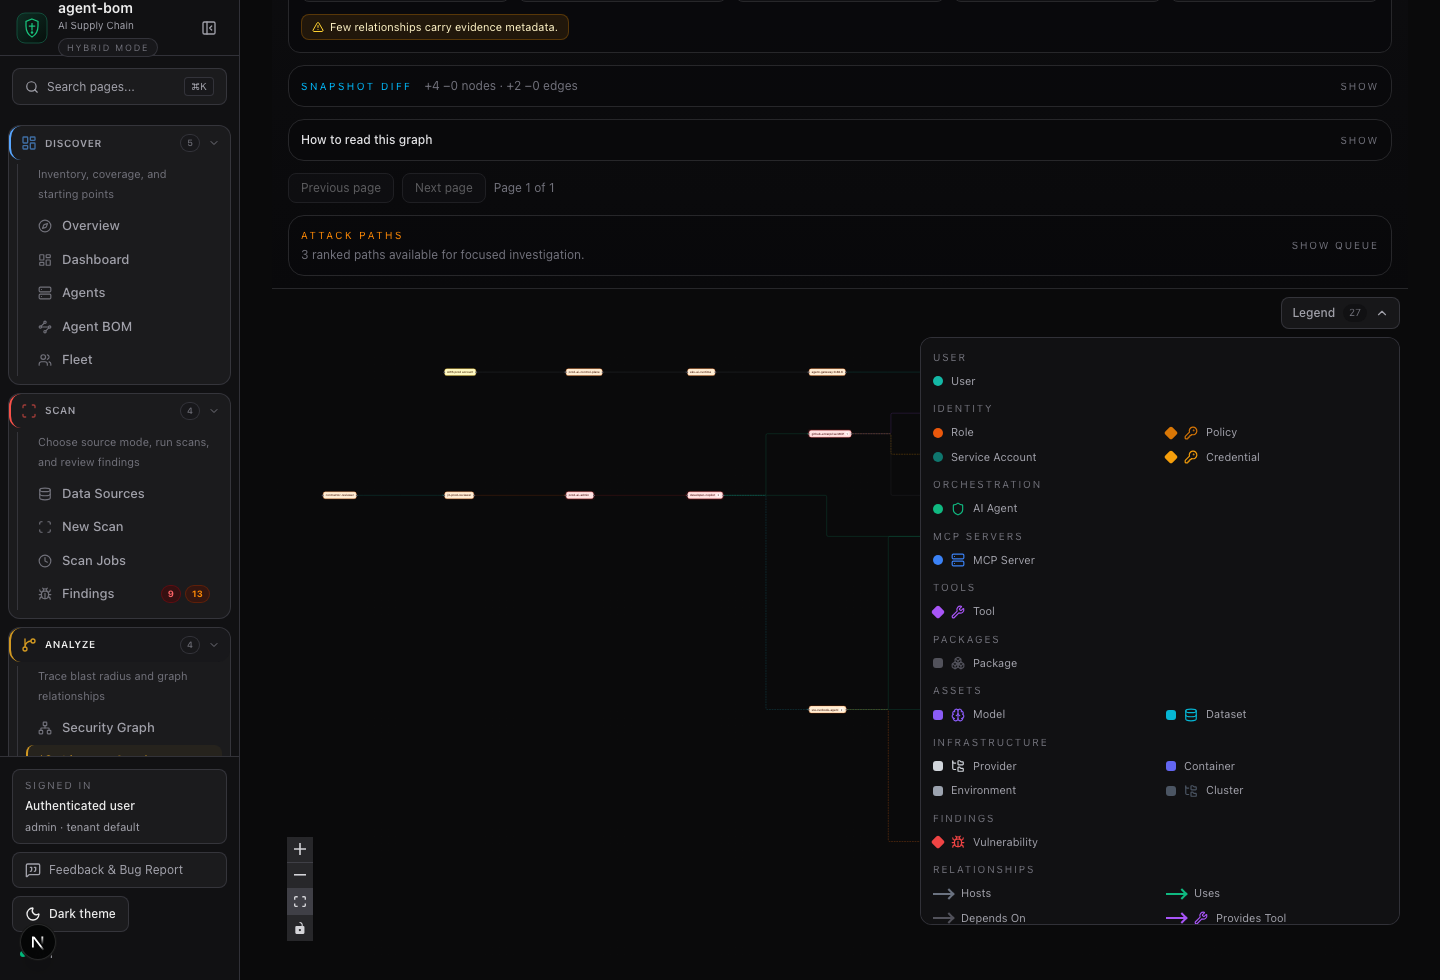
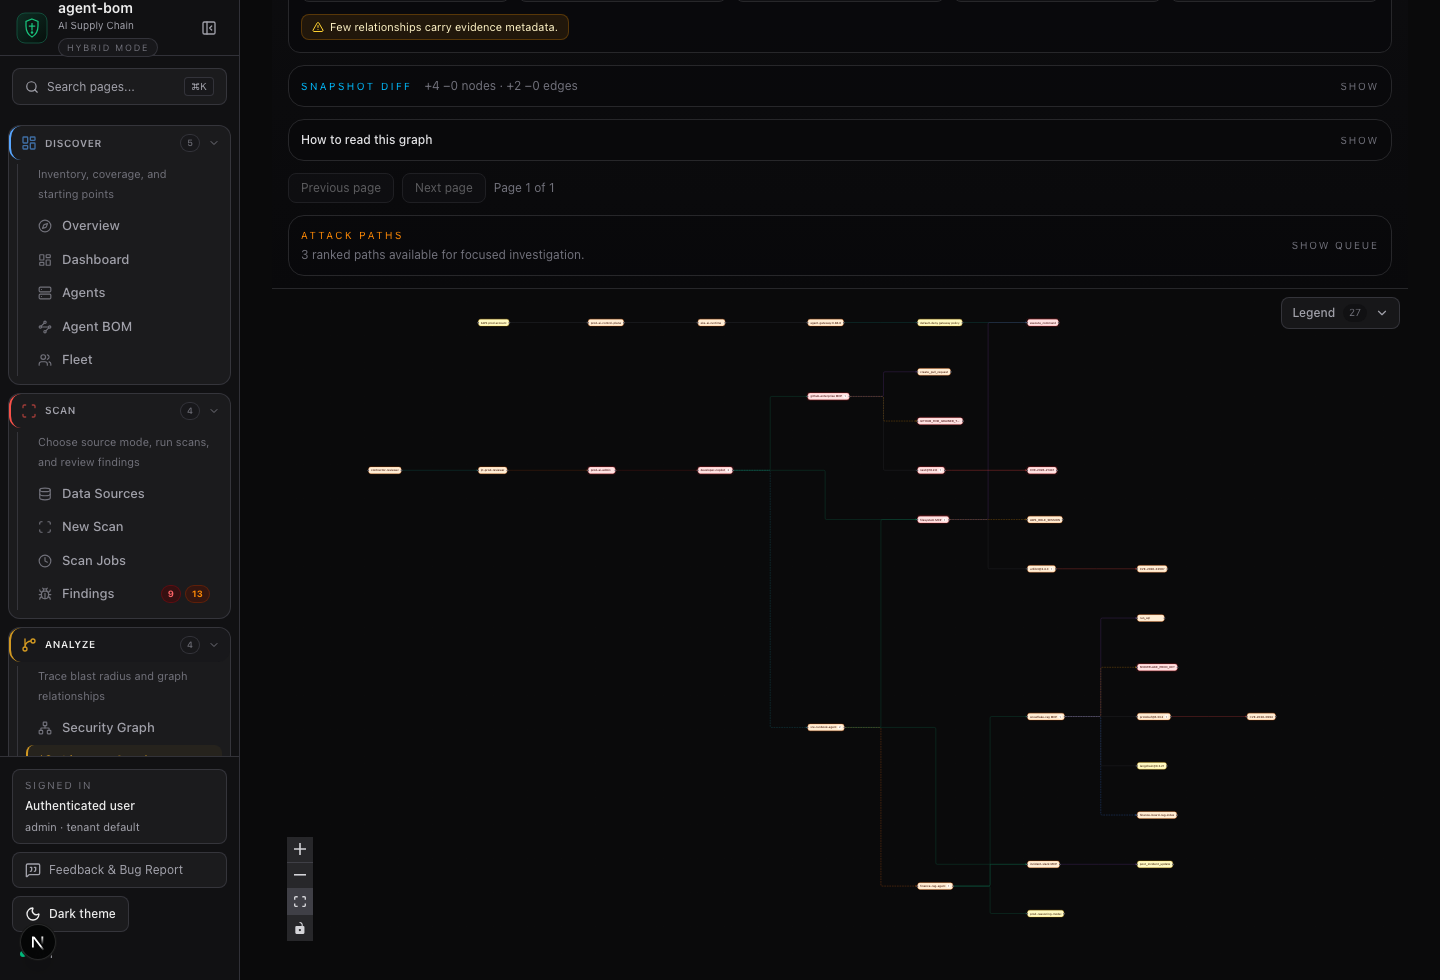
fix(ui): legend toggle now controls visibility; don't force it over the graph in capture
The graph legend computed visibility as `open || defaultOpen || embedded` and an
effect re-forced `setOpen(true)` whenever `defaultOpen` was set, so the Hide
button was inert wherever `defaultOpen` was passed — the legend could never be
closed. defaultOpen now seeds the initial state only and the toggle fully
controls visibility.

The lineage and context graphs passed `defaultOpen={captureMode}`, which forced
the legend open during capture and covered the topology. Drop that so the proof
images show the full, unobstructed graph (node cards already carry per-type
icons). Refreshes lineage-graph-live.png and context-map-live.png.

diff --git a/ui/components/graph-chrome.tsx b/ui/components/graph-chrome.tsx
@@ -5,7 +5,7 @@
  * Used across all graph views for consistent UX.
  */
 
-import { useState, useCallback, useEffect } from "react";
+import { useState, useCallback } from "react";
 import {
   Boxes,
   Bug,
@@ -81,17 +81,16 @@ export function GraphLegend({
   defaultOpen?: boolean;
   embedded?: boolean;
 }) {
+  // ``defaultOpen`` seeds the initial state only; the toggle then fully controls
+  // visibility. (Previously ``visible = open || defaultOpen`` plus an effect that
+  // re-forced open made the Hide button inert whenever ``defaultOpen`` was set.)
   const [open, setOpen] = useState(defaultOpen);
-
-  useEffect(() => {
-    if (defaultOpen) setOpen(true);
-  }, [defaultOpen]);
 
   if (items.length === 0) return null;
 
   const nodeItems = items.filter((item) => item.kind !== "edge");
   const edgeItems = items.filter((item) => item.kind === "edge");
-  const visible = open || defaultOpen || embedded;
+  const visible = embedded || open;
 
   return (
     <div className="relative">

diff --git a/ui/app/context/page.tsx b/ui/app/context/page.tsx
@@ -512,7 +512,7 @@ export default function ContextPage() {
           </div>
 
           <FullscreenButton />
-          <GraphLegend items={legendItems} defaultOpen={captureMode} />
+          <GraphLegend items={legendItems} />
         </div>
       </div>
 

diff --git a/ui/app/graph/graph-page-client.tsx b/ui/app/graph/graph-page-client.tsx
@@ -1925,7 +1925,7 @@ function GraphPageInner() {
               {/* Dock legend on the canvas itself so node-color -> entity-type
                   is one glance away. */}
               <Panel position="top-right" className="!m-2">
-                <GraphLegend items={legendItems} defaultOpen={captureMode} />
+                <GraphLegend items={legendItems} />
               </Panel>
             </ReactFlow>
           )}